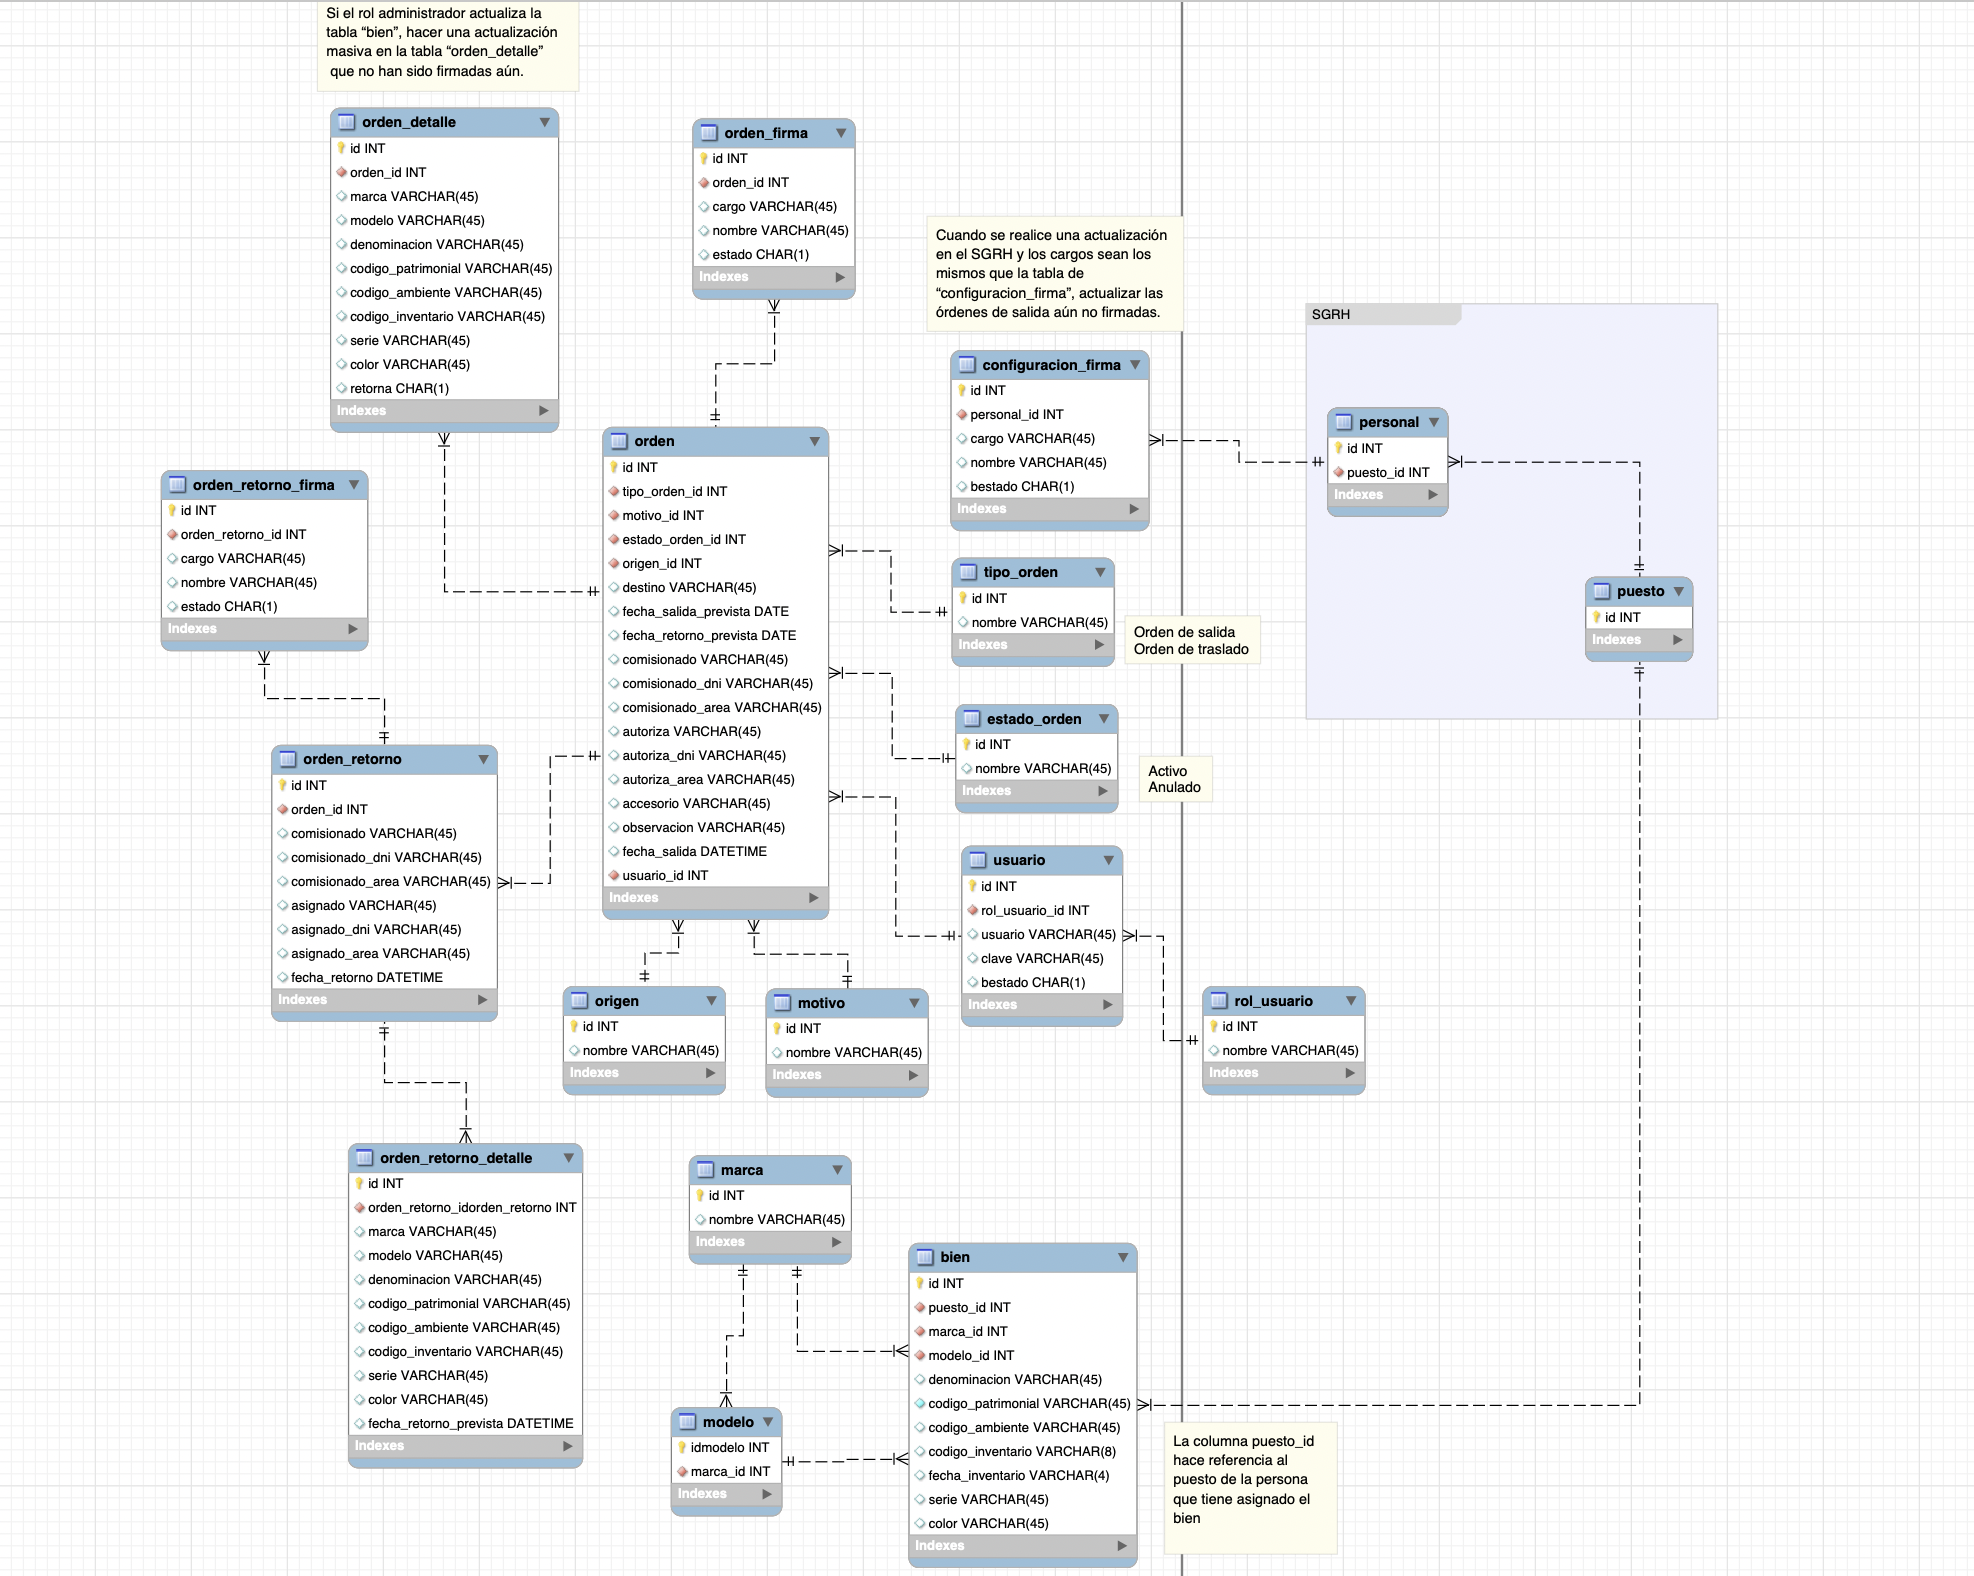
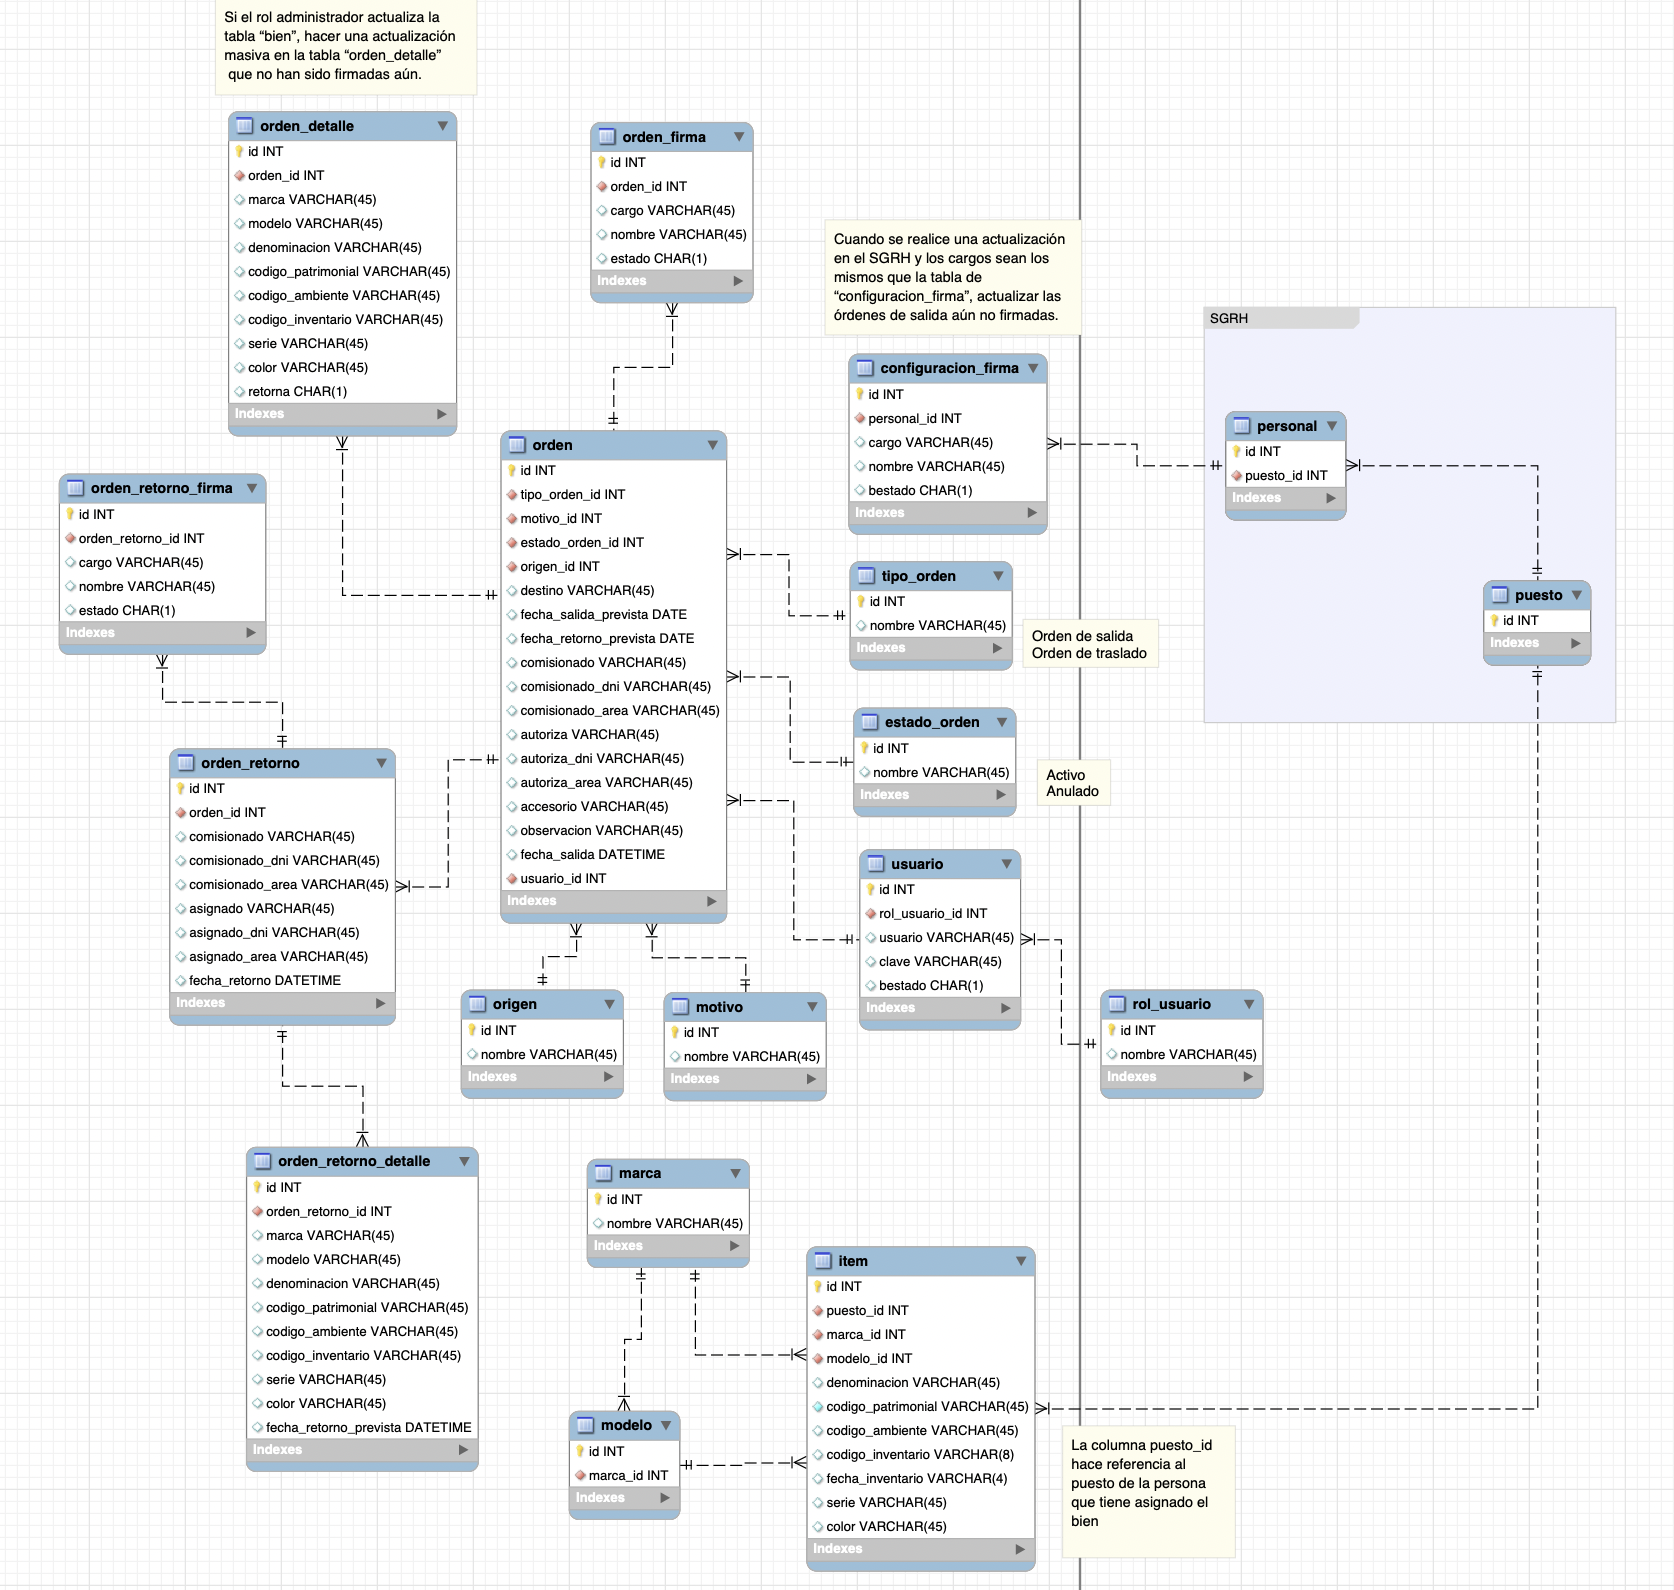
refactoring

diff --git a/src/main/java/pe/gob/igp/almacen/entity/ItemEntity.java b/src/main/java/pe/gob/igp/almacen/entity/ItemEntity.java
@@ -18,10 +18,11 @@ public class ItemEntity {
     private Integer id;
     
     @OneToOne
-    @JoinColumn(name="marca_id",referencedColumnName = "id")
+    @JoinColumn(name = "marca_id", referencedColumnName = "id")
     private MarcaEntity marca;
     
-    @Column
+    @OneToOne
+    @JoinColumn(name = "modelo_id", referencedColumnName = "id")
     private ModeloEntity modelo;
     
     @Column
